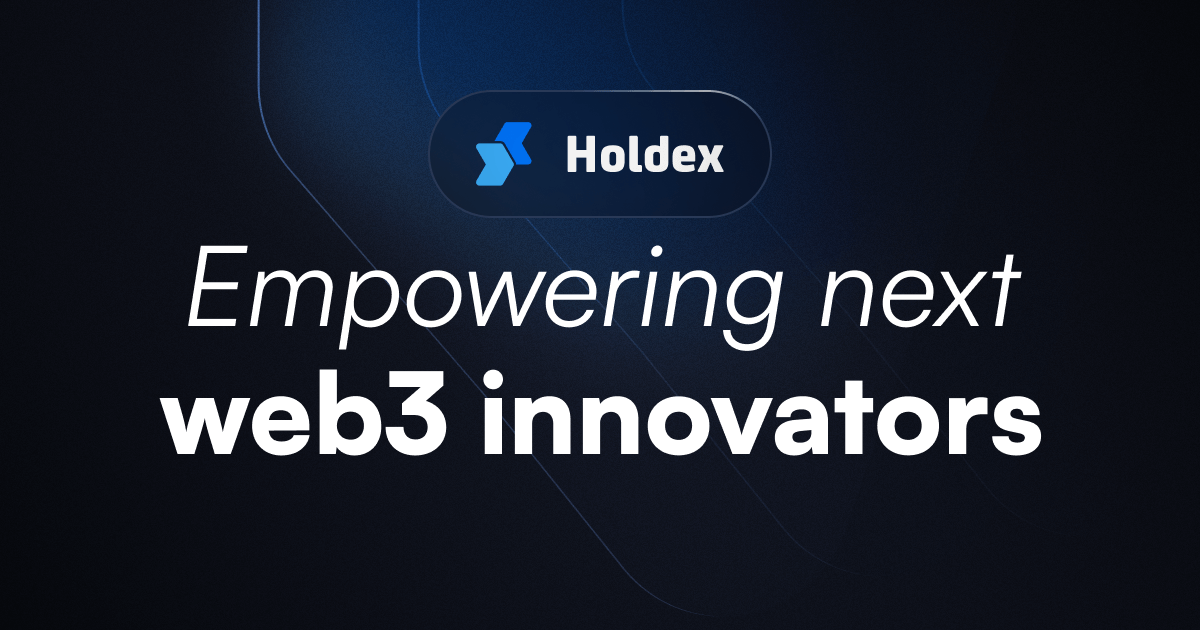
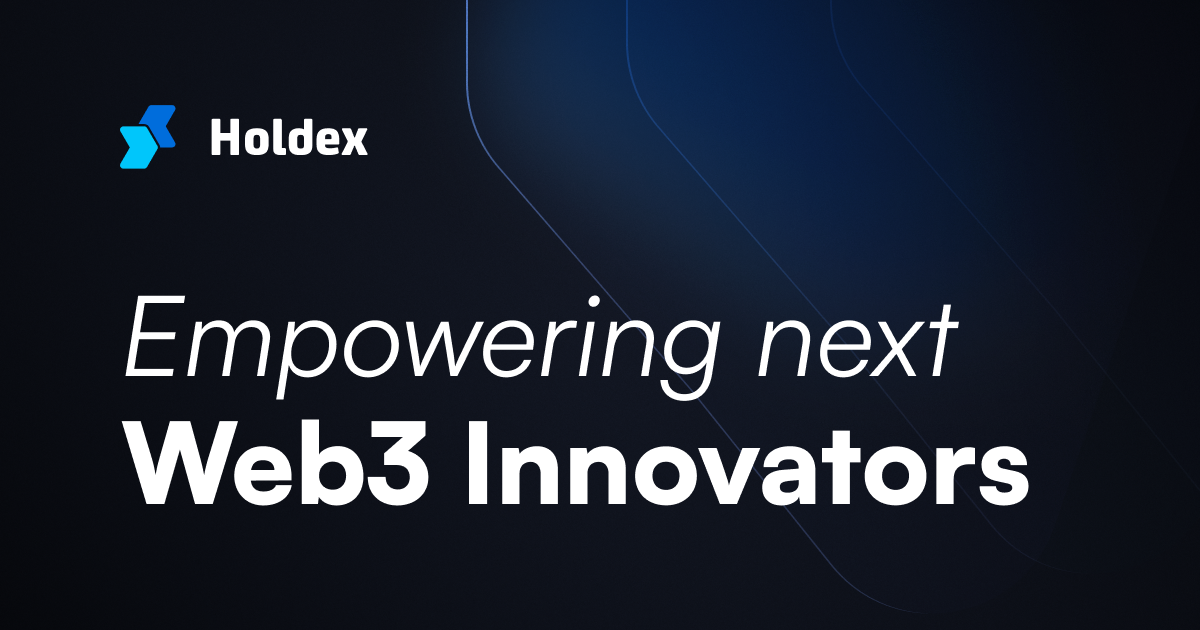
feat: view updated OG images for hardcoded pages

Changed region(s): [[0.0925, 0.0, 0.8633, 0.8143]]

diff --git a/src/lib/utils/index.ts b/src/lib/utils/index.ts
@@ -25,10 +25,11 @@ function findPos(obj: any) {
 
 export const sanitizeHtml = (s: string) => insane(s, {}, true);
 
-export function parseCommunityCoverImage(community: Community): string {
+export function parseCommunityCoverImage(community: Community): string | undefined {
   switch (community.slug) {
-    case 'announcements':
     case 'jobs':
+      return undefined;
+    case 'announcements':
     case 'learn':
     case 'case-studies':
     case 'founders-club':
@@ -49,7 +50,7 @@ export const formatUrlToTitle = (url: string): string => {
       .replace('www.', '')
       .split('.')[0]
       .split('-')
-      .map(word => word.charAt(0).toUpperCase() + word.slice(1).toLowerCase())
+      .map((word) => word.charAt(0).toUpperCase() + word.slice(1).toLowerCase())
       .join(' ');
     return domain;
   } catch {

diff --git a/src/routes/(pages)/c/guides/+page.svelte b/src/routes/(pages)/c/guides/+page.svelte
@@ -92,7 +92,7 @@
   title="Research in Web3 created by Holdex Team"
   description="Product and business crypto guides for someone who truly understands the power of blockchain."
   path={routes.research}
-  imagePath="/og/index.png"
+  imagePath="/og/guides.png"
 />
 
 <template lang="pug" src="./template.pug">

diff --git a/src/routes/(pages)/c/[slug]/+page.svelte b/src/routes/(pages)/c/[slug]/+page.svelte
@@ -120,6 +120,7 @@
   title="{community.tagline} | Holdex"
   description={sanitizeHtml(community.tagline)}
   path={routes.category(community.slug)}
+  imagePath={community.slug === 'jobs' ? '/og/jobs.png' : undefined}
   imageUrl={communityCover}
   pageName={community.name}
 />
